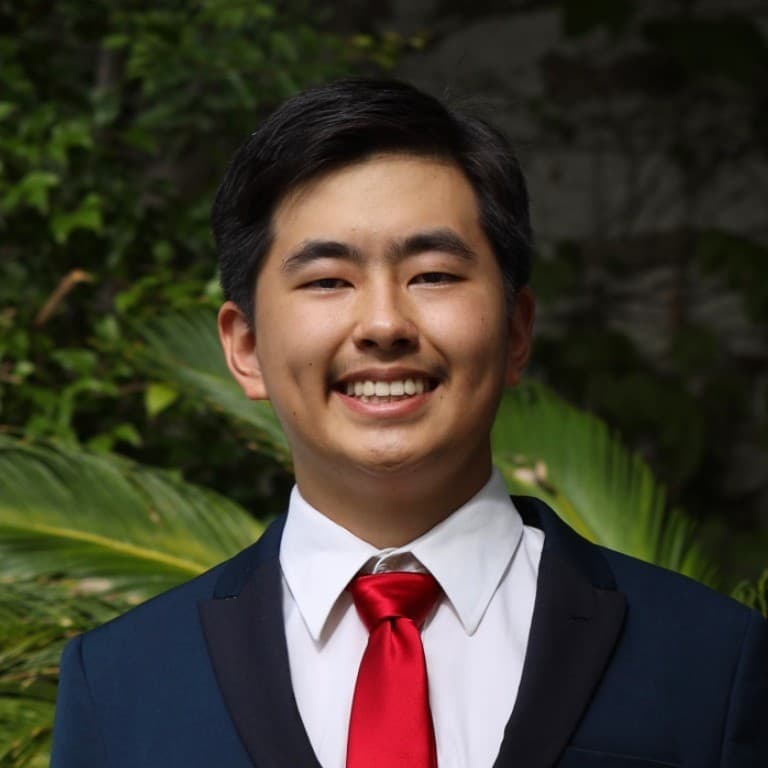
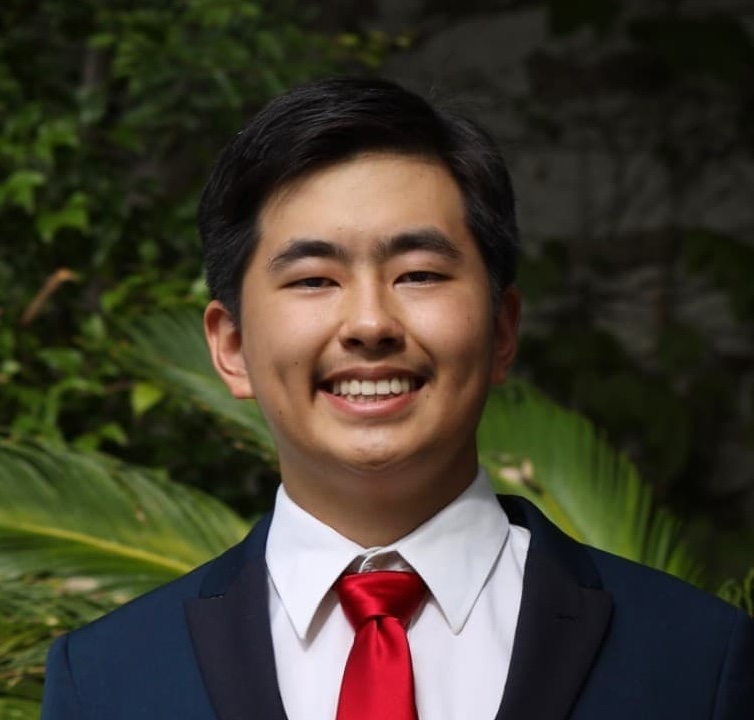
feat: update board headshots

diff --git a/src/components/board/board-info.ts b/src/components/board/board-info.ts
@@ -33,6 +33,7 @@ export const BOARD_INFO: BoardMember[] = [
 	{
 		name: "Sarah Son",
 		position: "Treasurer",
+		image: "/assets/board/2025/sarah-son.jpg"
 	},
 	{
 		name: "Jeremiah Soe", 
@@ -42,10 +43,12 @@ export const BOARD_INFO: BoardMember[] = [
 	{
 		name: "Andrew Kim",
 		position: "Public Relations Chair",
+		image: "/assets/board/2025/andrew-kim.jpg"
 	},
 	{
 		name: "Matthew Gray",
 		position: "Events Co-Chair",
+		image: "/assets/board/2025/matt-gray.jpg"
 	},
 	{
 		name: "Audrey Lu",
@@ -55,6 +58,7 @@ export const BOARD_INFO: BoardMember[] = [
 	{
 		name: "Andrew Wang",
 		position: "Projects Co-Chair",
+		image: "/assets/board/2025/andrew-wang.png"
 	},
 	{
 		name: "Kevin Wu",
@@ -64,14 +68,17 @@ export const BOARD_INFO: BoardMember[] = [
 	{
 		name: "Li Keller",
 		position: "Corporate Outreach Chair",
+		image: "/assets/board/2025/li-keller.jpg"
 	},
 	{
 		name: "Himal Malik",
 		position: "Academic and Alumni Affairs Chair",
+		image: "/assets/board/2025/himal-malik.jpg"
 	},
 	{
 		name: "Nico Hartman",
 		position: "Graphics Chair",
+		image: "/assets/board/2025/nico-hartman.png"
 	},
 	{
 		name: "Jay Wu",
